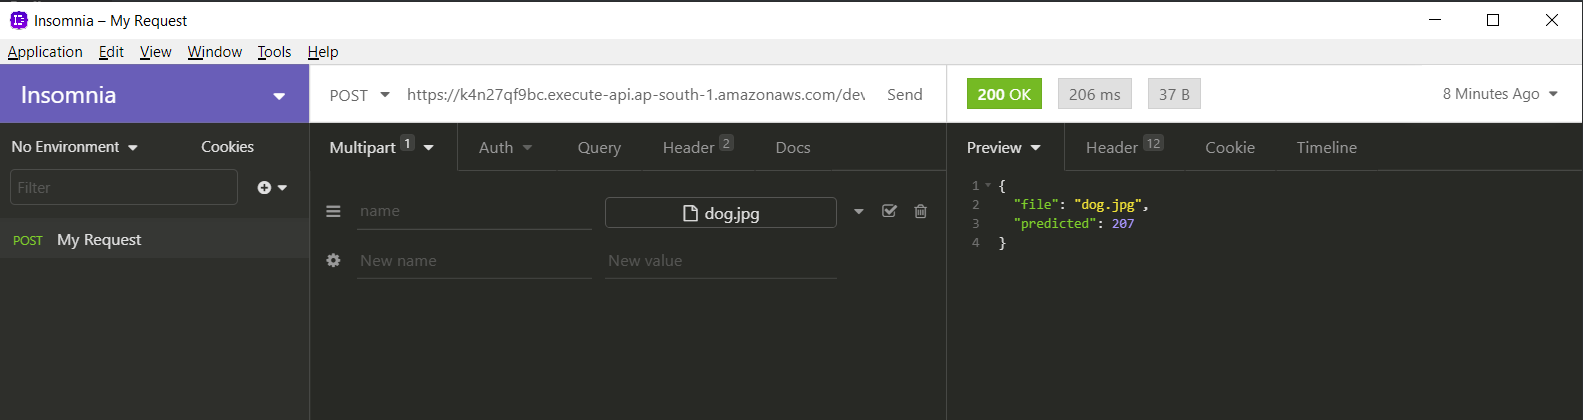
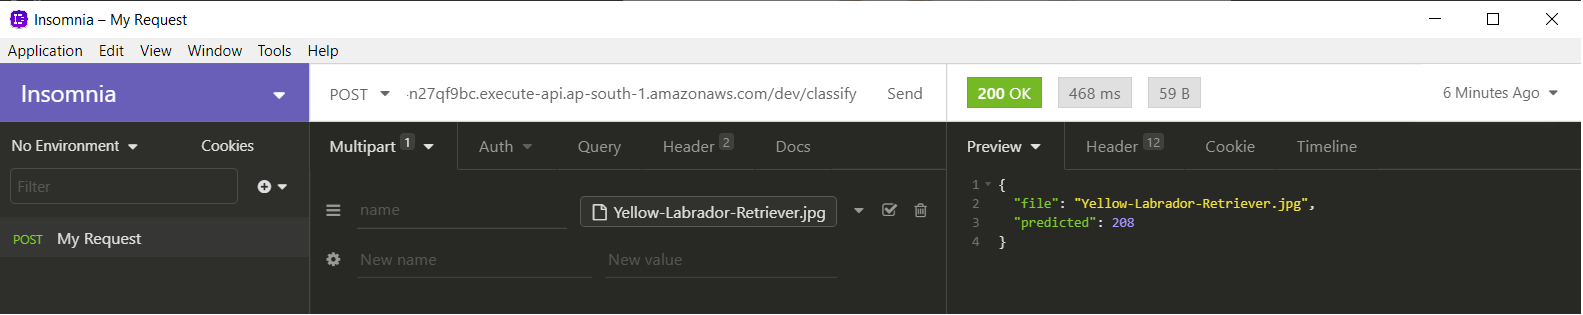
Updated to Yellow Labrador Retriever dog

diff --git a/Session-1/Assignment-1/ReadMe.md b/Session-1/Assignment-1/ReadMe.md
@@ -17,7 +17,7 @@
 
 **Input Image**
 
-<img src=".\dog.png" alt="Golden Retriever" style="zoom:80%;" />
+<img src=".\dog1.png" alt="Yellow Labrador Retriever" style="zoom:80%;" />
 
 
 
